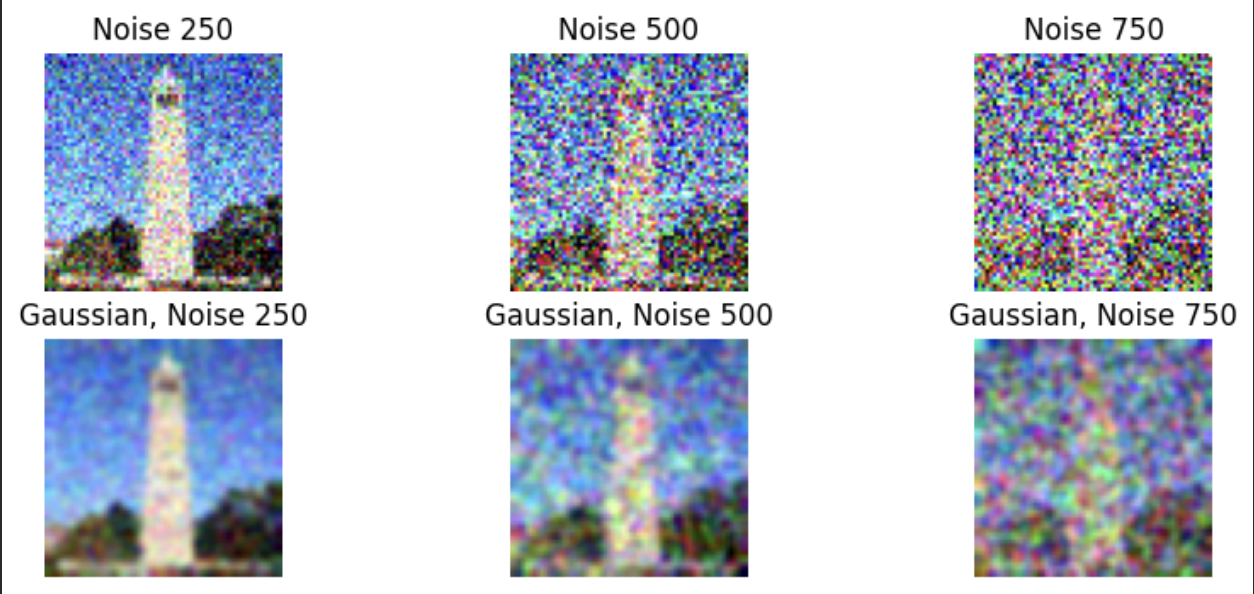
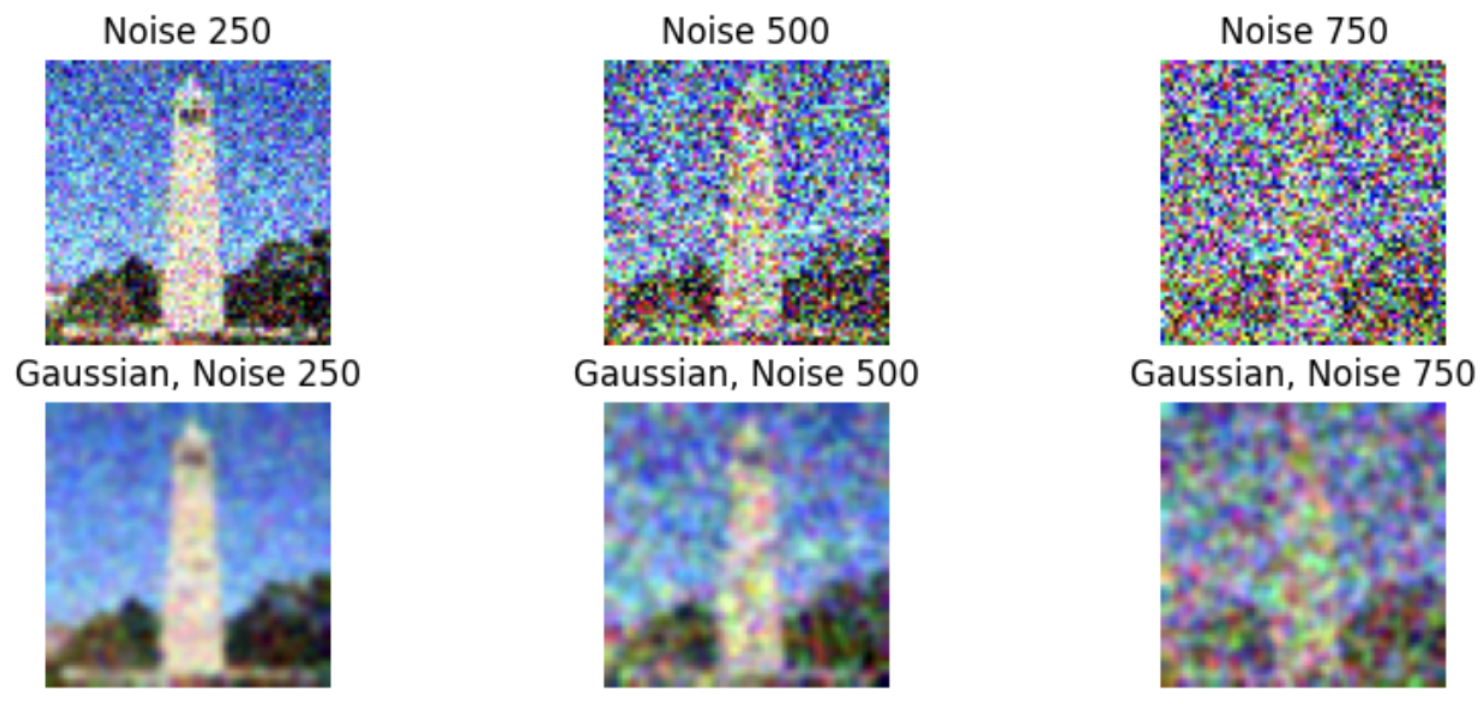
cleaned up proj 5

diff --git a/project5/code/index.html b/project5/code/index.html
@@ -106,15 +106,12 @@
                 </p>
             </section>
 
-            <div class="comp-container">
-                <img class="comp-img" src="../5a_results/noisy_campaniles.png" alt="Noisy Image">
-                <div class="comp-label label-right">Noisy</div>
-                <div class="comp-overlay" style="width: 50%;">
-                    <img src="../5a_results/noisy_gaussian_campaniles.png" alt="Gaussian Blur">
+            <div class="gallery-grid grid-1">
+                <div class="gallery-item">
+                    <img src="../5a_results/noisy_gaussian_campaniles.png" alt="One step denoising">
+                    <div class="caption">Noisy Images vs Gaussian Blurred Noisy Images</div>
                 </div>
-                <div class="comp-label label-left">Gaussian Blur</div>
             </div>
-            <div class="text-block"><p class="caption">Click and drag to compare noisy vs blurred.</p></div>
 
             <section class="text-block">
                 <h3>One-Step Denoising</h3>
@@ -151,11 +148,7 @@
                 </p>
             </section>
 
-            <div class="gallery-grid grid-2">
-                <div class="gallery-item">
-                    <img src="../5a_results/campanile.png" alt="Original Campanile">
-                    <div class="caption">The Campanile</div>
-                </div>
+            <div class="gallery-grid grid-1">
                 <div class="gallery-item">
                     <img src="../5a_results/one_step_denoising.png" alt="One step denoising">
                     <div class="caption">One-Step Denoising Results</div>
